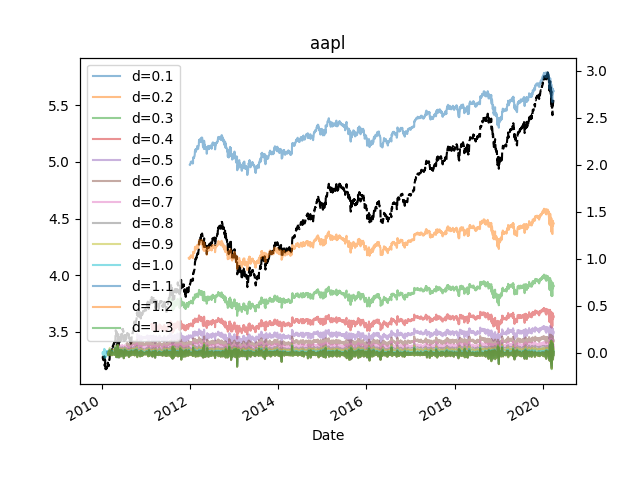
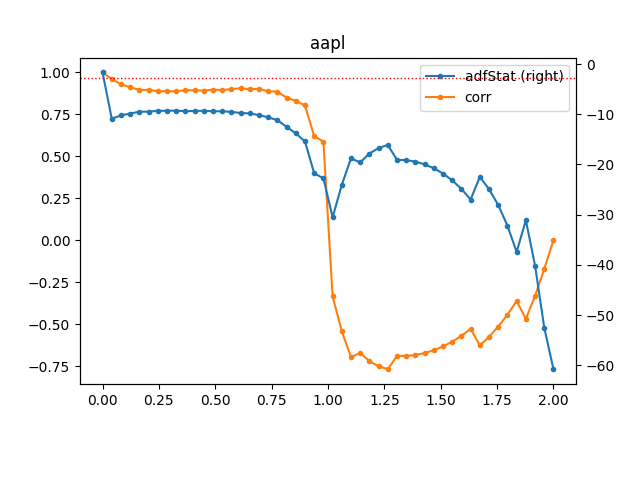
Add optimal degree picker. Not sure about trend still being in there.

diff --git a/fracdiff/examples.py b/fracdiff/examples.py
@@ -50,11 +50,11 @@ def example_1(symbols="aapl", df=None):
     ax.set_title(symbols)
     return locals()
 
-def example_2(symbols="aapl", df=None, thres=1e-3, maxlag=1, autolag=None, lim=None):
+def example_2(symbols="aapl", df=None, thres=1e-3, maxlag=1, autolag=None, lim=None, regression='c'):
     if df is None:
         df = get_data(symbols=symbols)
     s = np.log(df["Adj Close"])
-    l = plot_min_ffd(s, thres=thres, maxlag=maxlag, autolag=autolag, lim=lim)
+    l = plot_min_ffd(s, symbols=symbols, thres=thres, maxlag=maxlag, autolag=autolag, lim=lim, regression='c')
     ax = plt.gca()
     ax.set_title(symbols)
     return locals()
@@ -84,36 +84,59 @@ def _plot_weights(dRange, nPlots, size):
     plt.show()
     return
 
+import scipy
 
-def plot_min_ffd(s, thres=1e-2, maxlag=1, autolag=None, lim=None):
+def plot_min_ffd(s, symbols=None, thres=1e-2, maxlag=1, autolag=None, lim=None, regression='c'):
     """Finding the minimum d value that passes the ADF test.
     Input s should be prices."""
 
-    out = pd.DataFrame(columns=["adfStat", "pVal", "lags", "nObs", "95% conf", "corr"])
+    out = pd.DataFrame(columns=["adfStat", "pVal", "lags", "nObs", "95% conf", "99% conf", "corr"])
+    x = np.log(s.values)
     for d in np.linspace(0, 0.6, 50):
         # df1 -> x, df2 -> dx
-        x = np.log(s.values)
         dx = frac_diff_ffd(x, d, thres=thres, lim=lim)
 
         # this bit is important
         i = ~np.isnan(dx)
         # i = slice(None, None)
 
+        if dx[i].shape[0] < 10:
+            print(f'SKIPPING: data size after slicing is {x[i].shape[0]} from {x.shape[0]}')
+            continue
+
         dx = np.nan_to_num(dx, 0)
         # # dx = fast_frac_diff(x, d)
         corr = np.corrcoef(x[i], dx[i])[0, 1]
-        adf = adfuller(dx[i], maxlag=maxlag, regression="c", autolag=autolag)
-        out.loc[d] = list(adf[:4]) + [adf[4]["5%"]] + [corr]  # with critical value
+        adf = adfuller(dx[i], maxlag=maxlag, regression=regression, autolag=autolag)
+        out.loc[d] = list(adf[:4]) + [adf[4]["5%"], adf[4]["1%"]] + [corr]  # with critical value
 
     # TODO: need to get the best differences  and then plot them
+
+    params = np.polyfit(
+        out.index.values,
+        out['adfStat'].values, 
+        deg=3)
+
+    roots = (np.poly1d(params) - out['99% conf'].iloc[0]).roots
+    real_root = [x for x in roots if np.imag(x) == 0.0 and np.real(x) > 0]
+    assert len(real_root) == 1
+    real_root = np.real(real_root[0])
 
     plt.ion()
     fig = plt.figure(1)
     fig.clf()
-    ax = fig.subplots(2, 1)
+    ax = fig.subplots(3, 1)
     # a = out[["adfStat", "corr"]].plot(secondary_y="corr", ax=ax[0], style=".-")
     ax[0].plot(out.index, out['adfStat'], label='abfStat')
     ax[0].axhline(out["95% conf"].mean(), linewidth=1, color="r", linestyle="dotted", label='95% conf')
+    ax[0].axhline(out["99% conf"].mean(), linewidth=1, color="g", linestyle="dotted", label='99% conf')
+
+    # yy = np.linspace(*ax[0].get_ylim(), 100)
+    # ax[0].plot(np.polyval(params, yy), yy, color='r', label='fit', linestyle='--')
+    xx = np.linspace(*ax[0].get_xlim(), 100)
+    ax[0].plot(xx, np.polyval(params, xx), color='r', label='fit', linestyle='--')
+    ax[0].plot([real_root] * 2, ax[0].get_ylim(), color='y', linewidth=2, alpha=0.5)
+    
     ax2 = ax[0].twinx()
     ax2.plot(out.index, out['corr'], color='g', alpha=0.5, label='corr')
     ax[0].legend()
@@ -124,7 +147,16 @@ def plot_min_ffd(s, thres=1e-2, maxlag=1, autolag=None, lim=None):
     ax[1].plot(s.index, s.values)
     ax[1].grid()
     ax[1].set_ylabel('price')
+
+    dx = frac_diff_ffd(x, real_root, thres=thres, lim=lim)
+    dx = pd.Series(dx, s.index)
+    dx.plot(ax=ax[2])
+    ax[2].set_title(f'best d={real_root}')
+    ax[2].grid()
+
     plt.tight_layout()
     plt.show()
     print(out)
+    if symbols is not None:
+        plt.savefig(os.path.expanduser(f'~/{symbols}.png'))
     return locals()

diff --git a/README.md b/README.md
@@ -2,6 +2,17 @@
 
 Corrected and sanitized version of code from Advances of Machine Learning by Marcos Prado.
 
+## Best degree of diff
+
+<p align="center">
+  <img src="doc/aapl.png">
+  <img src="doc/fb.png">
+  <img src="doc/gs.png">
+  <img src="doc/ibm.png">
+  <img src="doc/v.png">
+</p>
+
+
 ## Diffs
 
 <p align="center">
